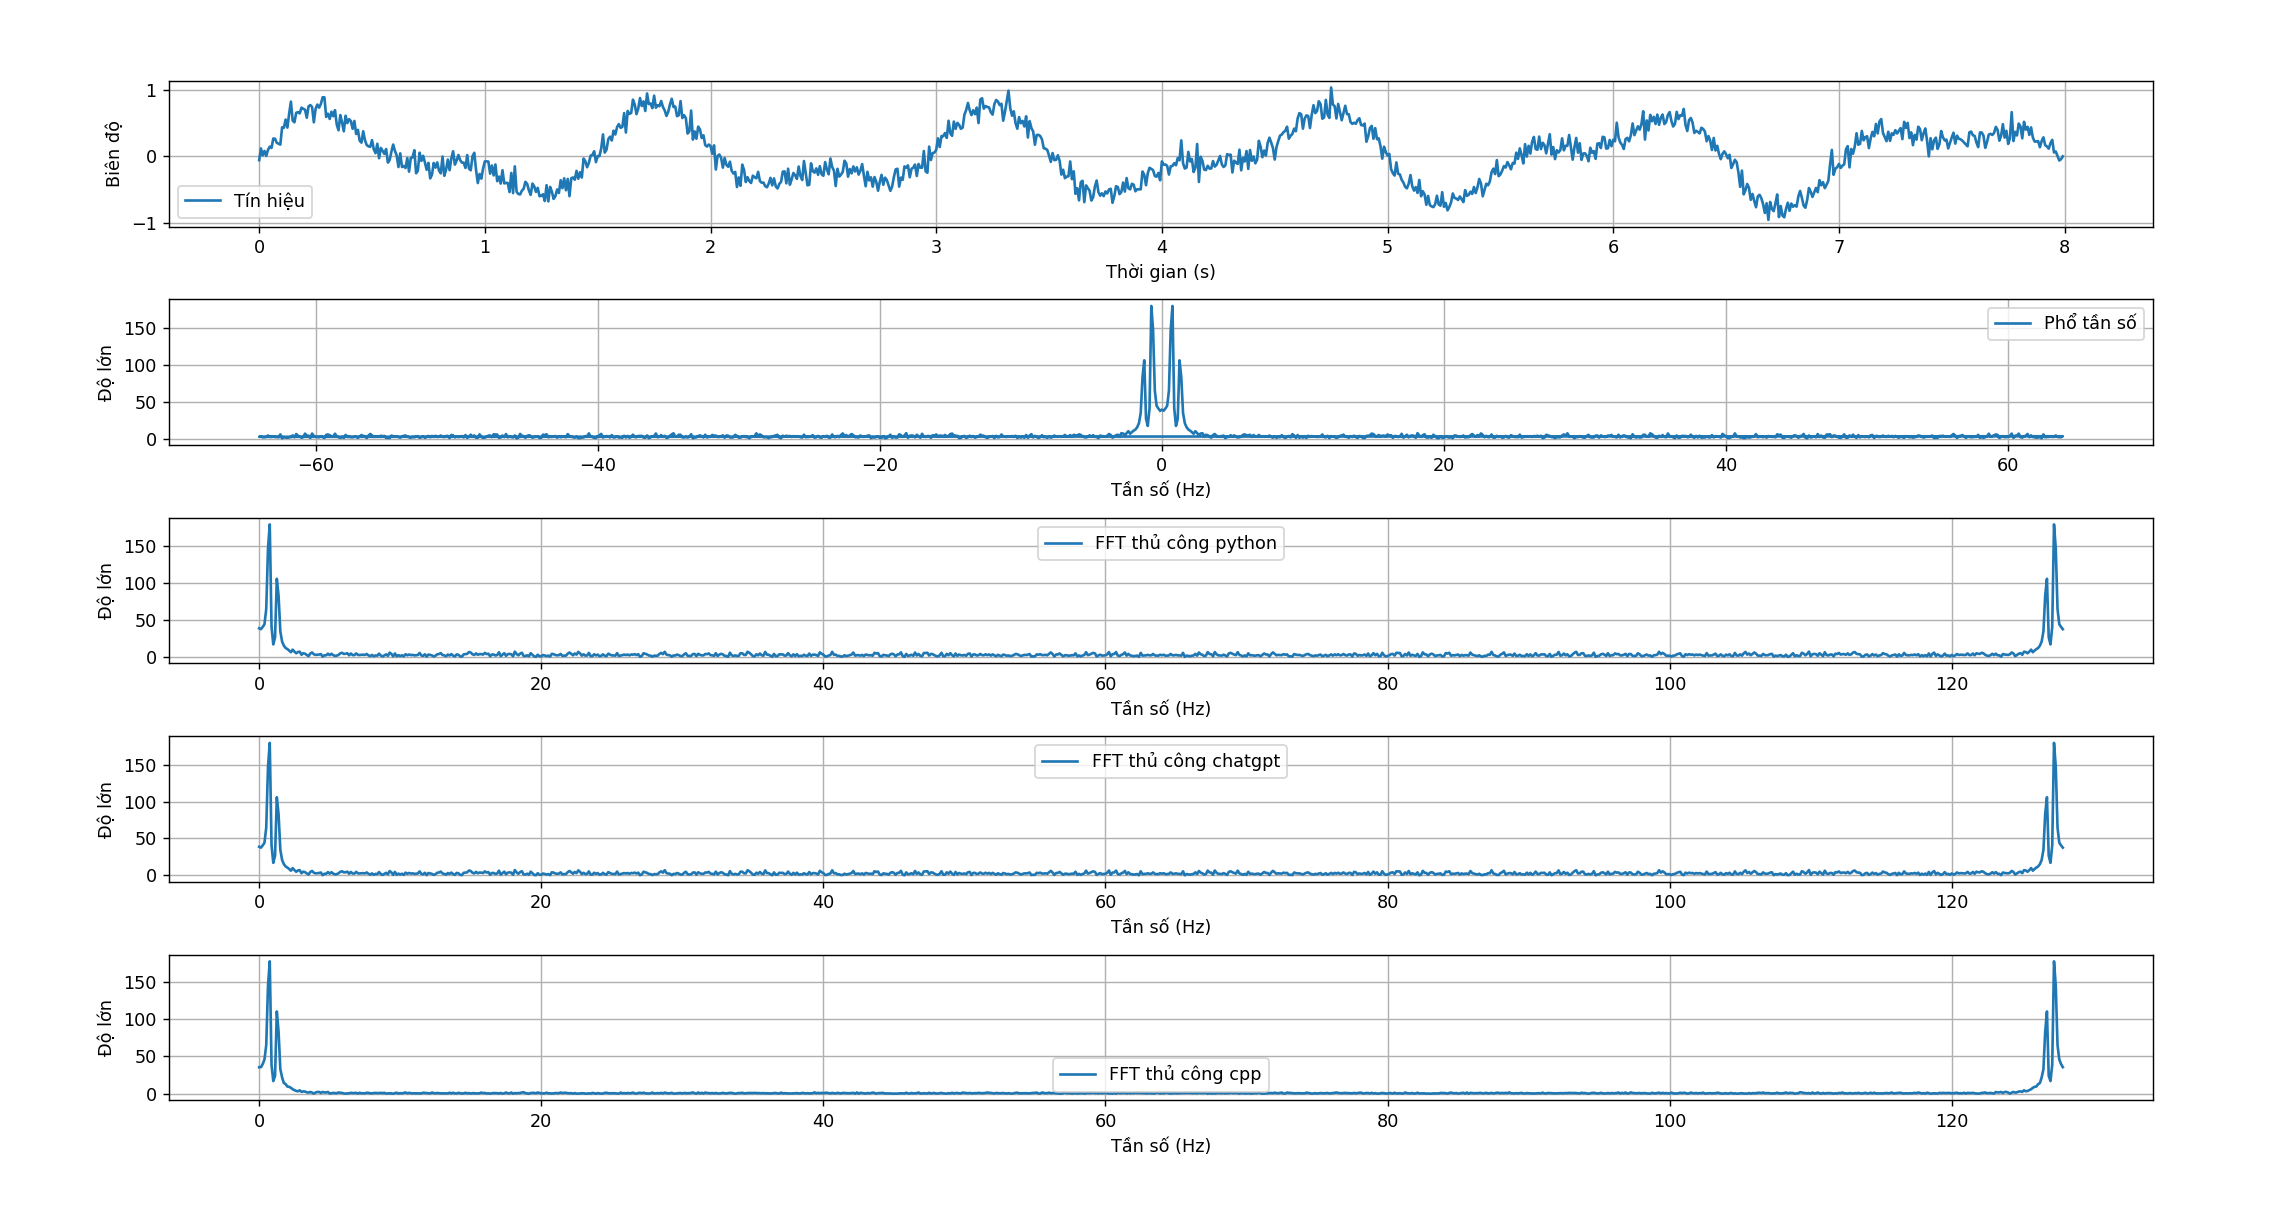
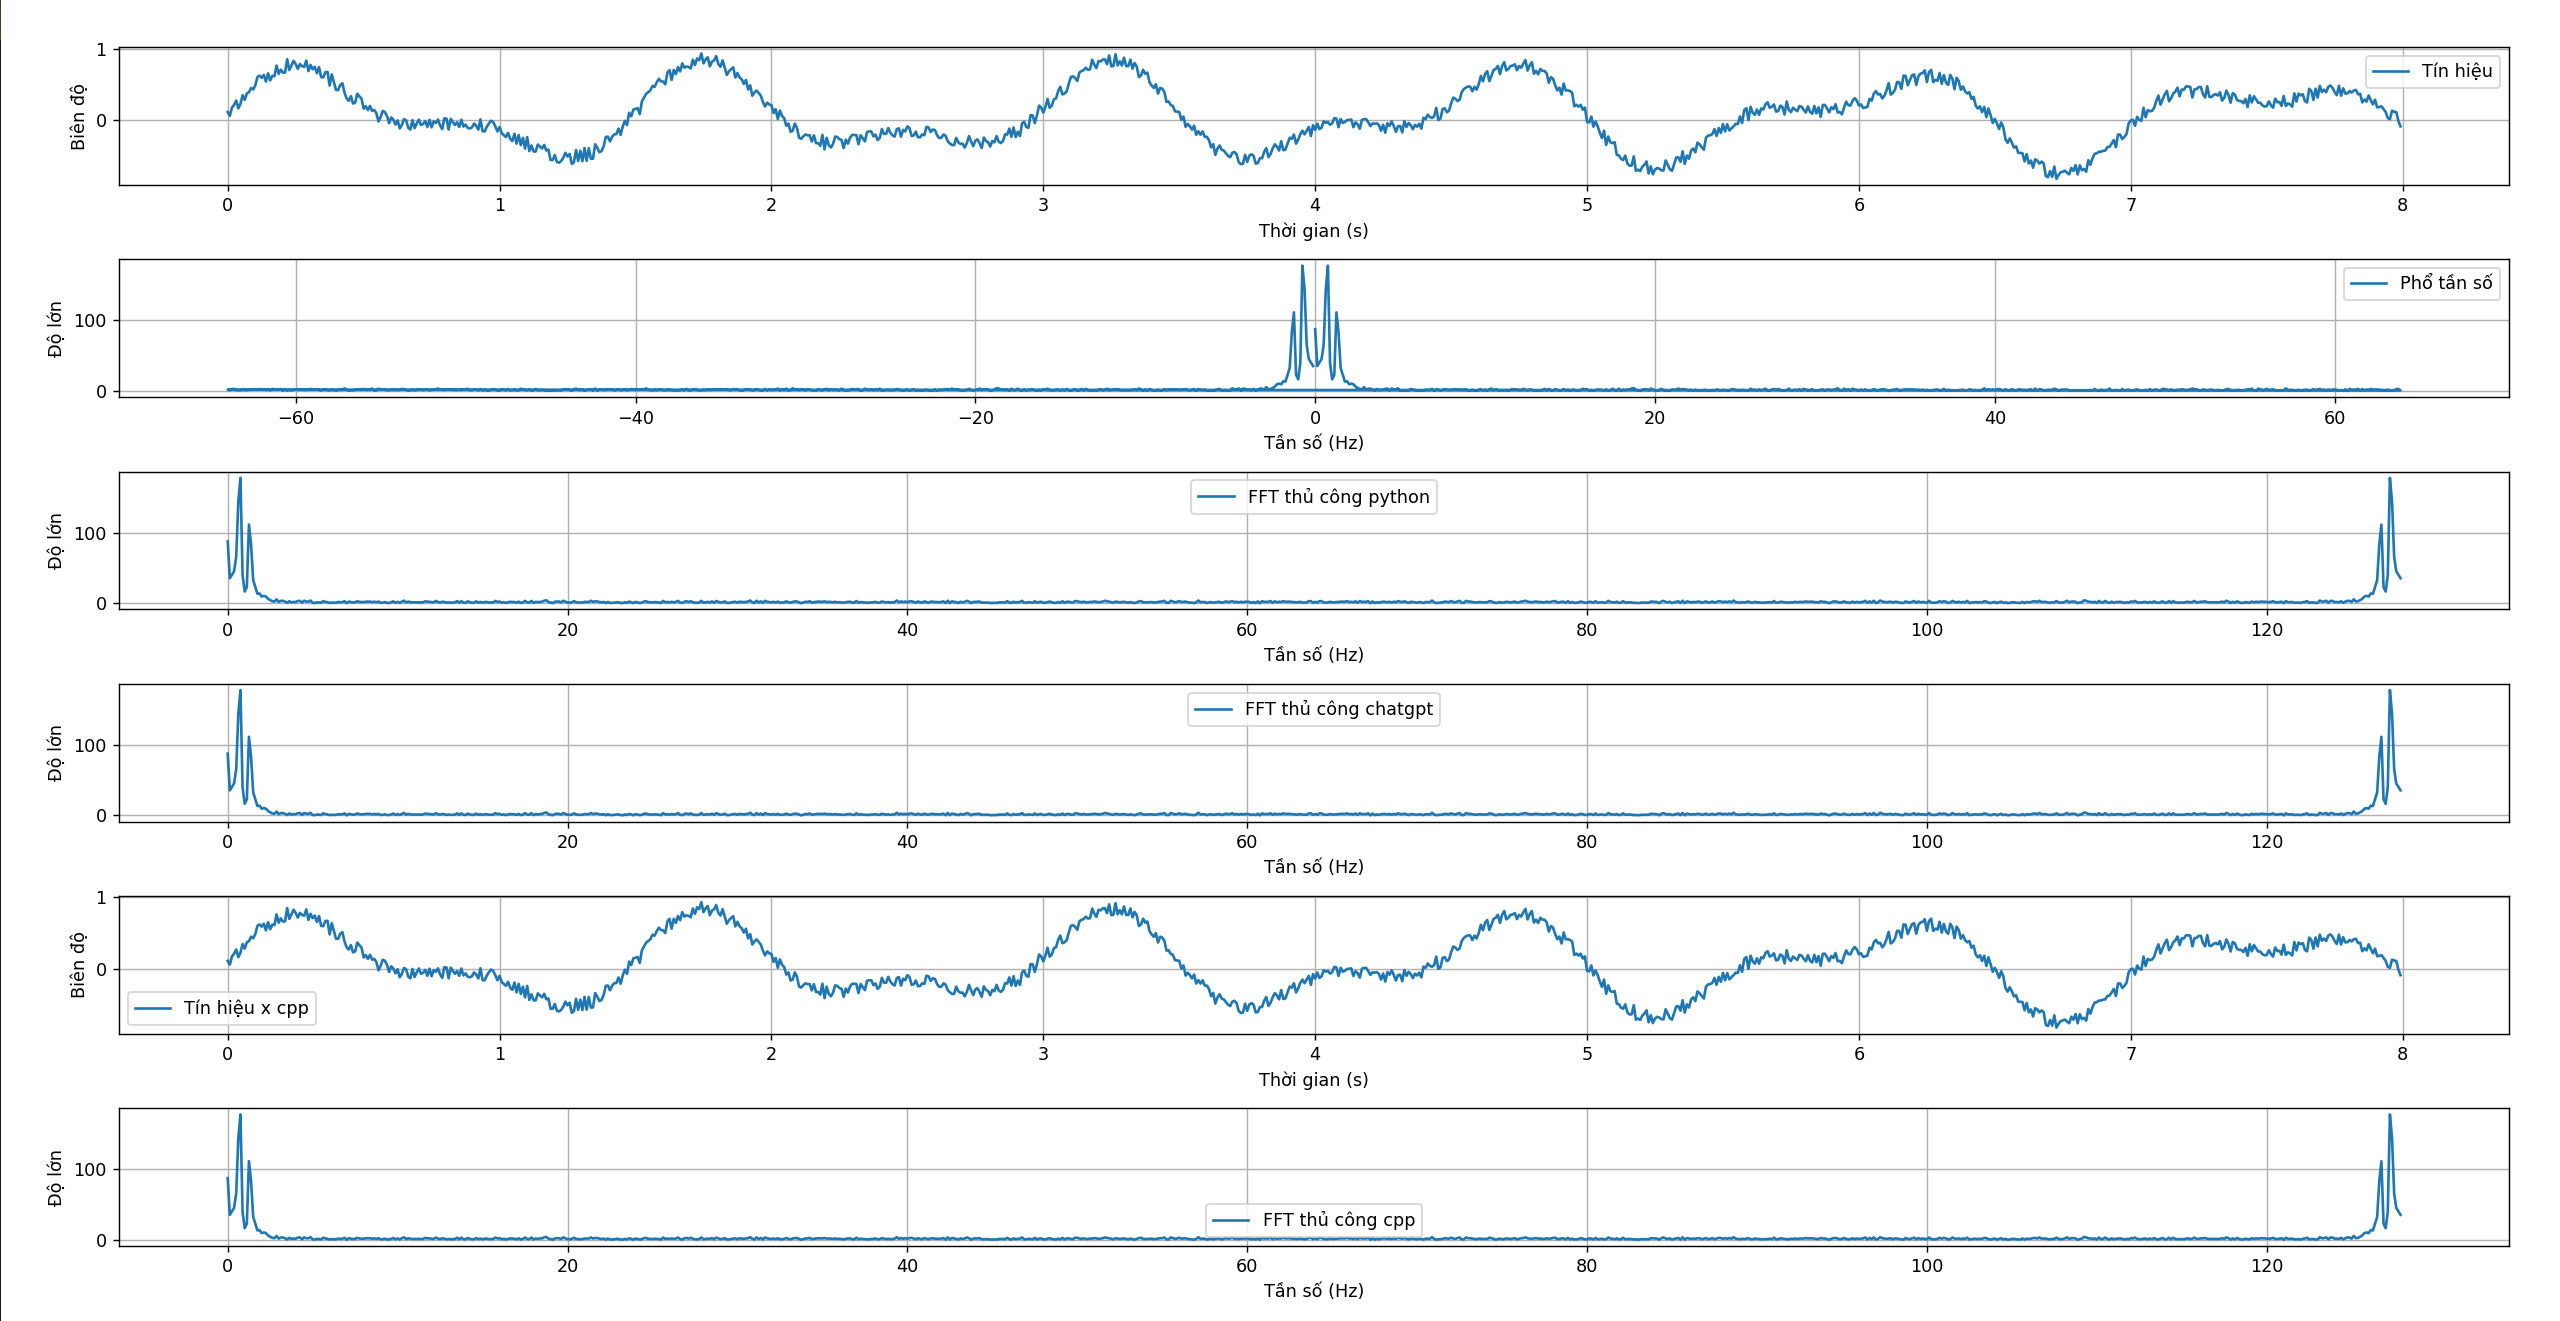
python and cPP use same data

diff --git a/fft.cpp b/fft.cpp
@@ -16,8 +16,8 @@ enum ret_code
     ret_fail_memory_generate_signals=-2,
     ret_fail_memory_generate_W_k_N=-3,
     ret_fail_memory_fft=-4,
-    ret_fail_memory_abs_fft=-5
-
+    ret_fail_memory_abs_fft=-5,
+    ret_save_file=-6
 };
 
 template <typename T>
@@ -80,7 +80,7 @@ bool generate_signals(float **x, int N, float fs)
         (*x)[i] = 0.5 * sin(2 * M_PI * f1 * t) + 0.3 * sin(2 * M_PI * f2 * t);
         t += delta_t;
         // Thêm nhiễu Gaussian
-        float noise = 0.1 * rand() / RAND_MAX - 0.05; // Giả sử nhiễu Gaussian có trung bình 0 và phương sai 0.01
+        float noise = 0.2 * rand() / RAND_MAX - 0.05; // Giả sử nhiễu Gaussian có trung bình 0 và phương sai 0.01
         (*x)[i] += noise;
     }
     return true;
@@ -169,6 +169,19 @@ bool abs_fft(float **X_RE, float **X_IM, float **X_abs, int N)
     return true;
 }
 
+template <typename T>
+bool save_to_file(const char *filename, T *data, int N)
+{
+    std::ofstream bin_file(filename, std::ios::binary);
+    if (!bin_file.is_open())
+    {
+        return false;
+    }
+    bin_file.write(reinterpret_cast<const char*>(data), N * sizeof(T));
+    bin_file.close();
+    return true;
+}
+
 int main(int argc, char const *argv[])
 {
     unsigned int *order = nullptr;
@@ -190,13 +203,19 @@ int main(int argc, char const *argv[])
         return ret_fail_memory_generate_signals;
     }
 
+    if (!save_to_file("signals.bin", x, N_samples))
+    {
+        std::cerr << "Failed to save signals to file." << std::endl;
+        return ret_save_file;
+    }
+
     if (!generate_W_k_N(&W_k_N_RE, &W_k_N_IM, N_samples))
     {
         return ret_fail_memory_generate_W_k_N;
     }
 
     auto start = std::chrono::high_resolution_clock::now();
-    unsigned int n_iter = 1000;
+    unsigned int n_iter = 1000; // Số lần lặp để đo thời gian
     for (int i = 0; i < n_iter; ++i)
     {
         if (!fft(&x, &X_RE, &X_IM, &freq, frequence_sample, N_samples, &order, &W_k_N_RE, &W_k_N_IM))
@@ -209,11 +228,10 @@ int main(int argc, char const *argv[])
         }
     }
 
-    std::ofstream bin_file("fft.bin", std::ios::binary);
-    if (bin_file.is_open())
+    if (!save_to_file("fft_result.bin", X, N_samples))
     {
-        bin_file.write(reinterpret_cast<const char*>(X), N_samples * sizeof(float));
-        bin_file.close();
+        std::cerr << "Failed to save FFT result to file." << std::endl;
+        return ret_save_file;
     }
 
     auto end = std::chrono::high_resolution_clock::now();
@@ -228,7 +246,7 @@ int main(int argc, char const *argv[])
     delete[] X_RE;
     delete[] X_IM;
     delete[] freq;
-    return 0;
+    return ret_success;
 }
 
 // g++ -std=c++17 fft.cpp -o fft -lm && ./fft

diff --git a/fft.py b/fft.py
@@ -80,6 +80,9 @@ if __name__ == "__main__":
     # Thêm nhiễu Gaussian
     noise = 0.1 * np.random.normal(size=N)
     x += noise
+    
+    with open("signals.bin", "rb") as f:
+        x = np.fromfile(f, dtype=np.float32)
 
     # Tính FFT
     X_np = np.fft.fft(x)
@@ -107,52 +110,58 @@ if __name__ == "__main__":
     my_magnitude2 = np.abs(my_X2)
 
     # Load binary files
-    with open("fft.bin", "rb") as f:
+    with open("signals.bin", "rb") as f:
+        x_cpp = np.fromfile(f, dtype=np.float32)
+
+    with open("fft_result.bin", "rb") as f:
         X_cpp = np.fromfile(f, dtype=np.float32)
 
     # Vẽ tín hiệu trong miền thời gian
     plt.figure(figsize=(12, 5))
-    plt.subplot(5, 1, 1)
+    plt.subplot(6, 1, 1)
     plt.plot(t, x, label='Tín hiệu')
     plt.xlabel('Thời gian (s)')
     plt.ylabel('Biên độ')
-    # plt.title('Tín hiệu trong miền thời gian')
     plt.grid()
     plt.legend()
     
     # Vẽ phổ tần số (f>0)
-    plt.subplot(5, 1, 2)
+    plt.subplot(6, 1, 2)
     plt.plot(frequencies_np, magnitude_np, label='Phổ tần số')
     plt.xlabel('Tần số (Hz)')
     plt.ylabel('Độ lớn')
-    # plt.title('Phổ tần số')
     plt.grid()
     plt.legend()
 
     # Vẽ tín hiệu trong miền tần số
-    plt.subplot(5, 1, 3)
+    plt.subplot(6, 1, 3)
     plt.plot(my_frequencies, my_magnitude, label='FFT thủ công python')
     plt.xlabel('Tần số (Hz)')
     plt.ylabel('Độ lớn')
-    # plt.title('FFT thủ công python')
     plt.grid()
     plt.legend()
 
     # Vẽ tín hiệu trong miền tần số
-    plt.subplot(5, 1, 4)
+    plt.subplot(6, 1, 4)
     plt.plot(my_frequencies, my_magnitude, label='FFT thủ công chatgpt')
     plt.xlabel('Tần số (Hz)')
     plt.ylabel('Độ lớn')
-    # plt.title('FFT thủ công chatgpt')
+    plt.grid()
+    plt.legend()
+    
+    # Vẽ tín hiệu trong miền tần số
+    plt.subplot(6, 1, 5)
+    plt.plot(t, x_cpp, label='Tín hiệu x cpp')
+    plt.xlabel('Thời gian (s)')
+    plt.ylabel('Biên độ')
     plt.grid()
     plt.legend()
 
     # Vẽ phổ tần số (f>0)
-    plt.subplot(5, 1, 5)
+    plt.subplot(6, 1, 6)
     plt.plot(my_frequencies, X_cpp, label='FFT thủ công cpp')
     plt.xlabel('Tần số (Hz)')
     plt.ylabel('Độ lớn')
-    # plt.title('FFT thủ công cpp')
     plt.grid()
     plt.legend()
 
